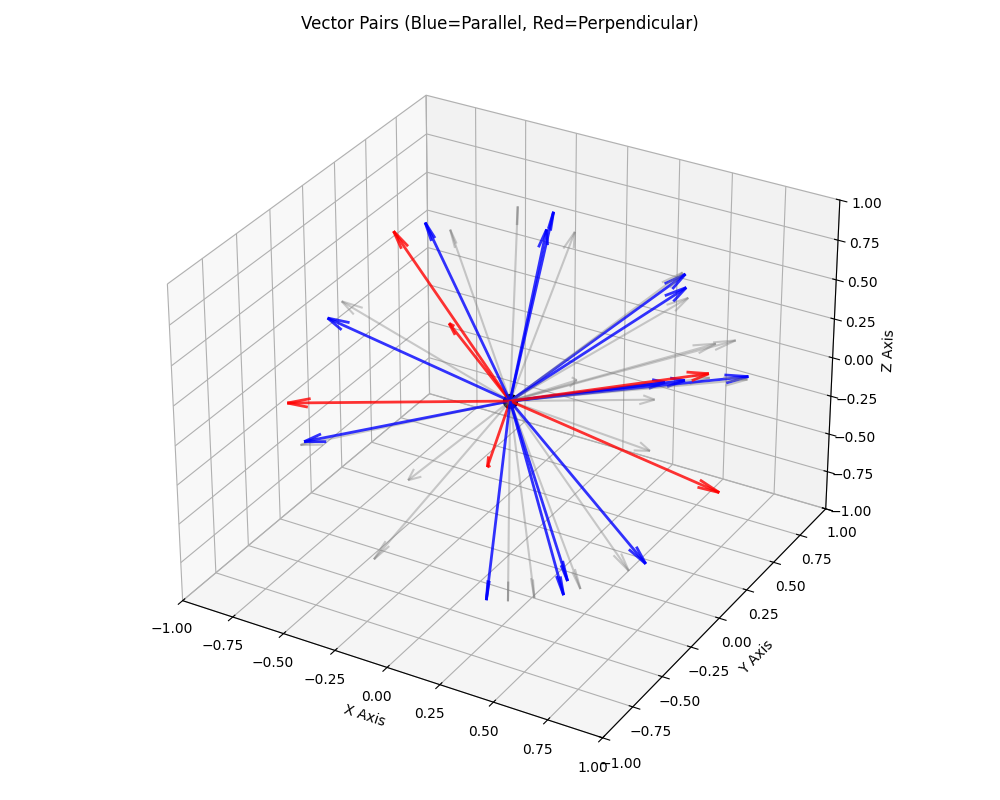
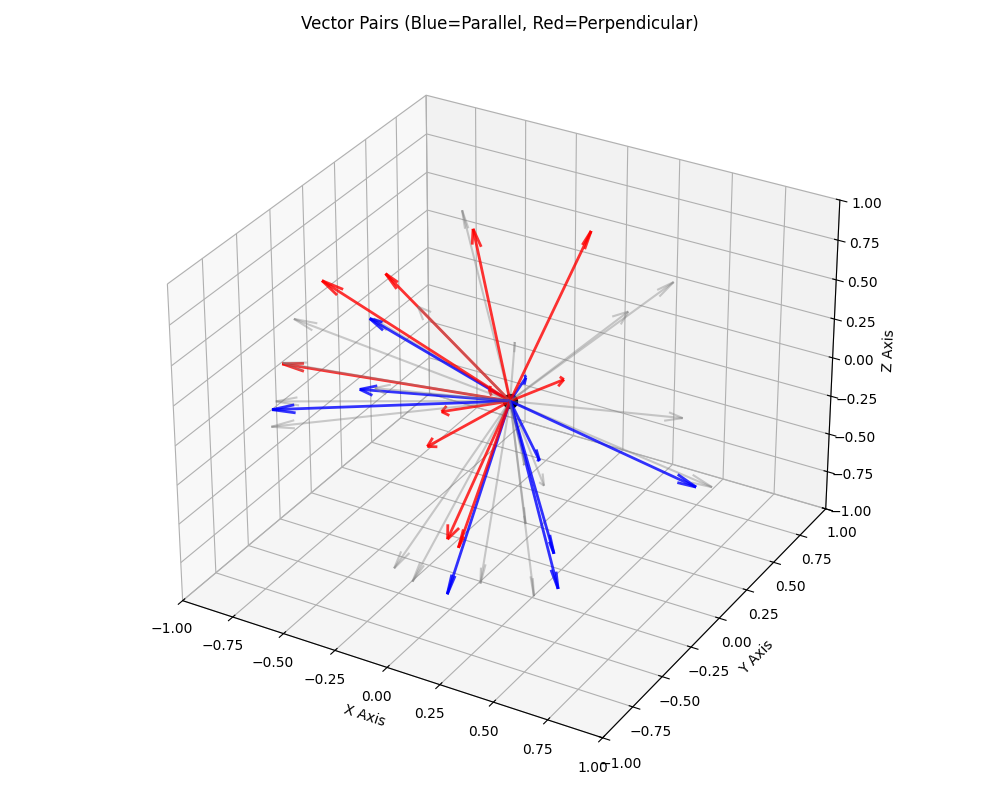
Update model and rotation invariance / wording in readme

Changed region(s): [[0.279, 0.2812, 0.744, 0.75], [0.589, 0.625, 0.651, 0.7188], [0.682, 0.5938, 0.713, 0.625]]

diff --git a/BlackHoleSpinAlignment.py b/BlackHoleSpinAlignment.py
@@ -3,22 +3,22 @@ import torch.nn as nn
 import torch.optim as optim
 import e3nn.o3
 import e3nn.nn
-from e3nn.nn import BatchNorm
-from e3nn.o3 import FullyConnectedTensorProduct
 import numpy as np
 import matplotlib.pyplot as plt
-import scipy.spatial.transform
 from scipy.spatial.transform import Rotation as R
-import sklearn.metrics
 
-# Generate pairs of vectors that are either parallel or perpendicular. (Binary or Dynamical Black Hole Formation)
+SEED = 42
+np.random.seed(SEED)
+torch.manual_seed(SEED)
+
+# Generate synthetic pairs of vectors that are either parallel or perpendicular. (Binary or Dynamical Black Hole Formation)
 def generate_parallel_perpendicular_data(n_samples=1000, noise_level=0.1): # Because nature is not perfect, add random noise to alter the numbers slightly
     v1_list = []
     v2_list = []
     labels = [] # parallel or perpendicular
 
     for i in range(n_samples): # create the list of vectors n times
-        v1 = np.random.rand(3) # generate vector having 3 numbers (x, y, z)
+        v1 = np.random.randn(3) # generate vector having 3 numbers (x, y, z)
         v1 = v1 / np.linalg.norm(v1) # normalize the vectors to a length of 1 (makes it fair for smaller numbers)
         
         label = np.random.randint(0, 2) # random 50/50 result of 0 or 1 (parallel or perpendicular)
@@ -82,7 +82,8 @@ class AlignmentClassifier(nn.Module): # Creating the custom neural network model
         self.irreps_output = e3nn.o3.Irreps("10x0e")  # "10x0e" = 10x(channels)0(scalar)e(even parity)
         
         # Tensor product: v1 ⊗ v2
-        # Outputs geometric features encoding dot product, cross product, etc.
+        # Outputs rotationally invariant scalar features from geometric relationships between vector 1 and 2
+        # Since the output is 0e, these features contain dot-product-like information than just vector information
         self.tp = e3nn.o3.FullyConnectedTensorProduct( # FullyConnectedTensorProduct preforms tensor product between two input features to produce an output tensor which desired features
             self.irreps_in,  # vector v1
             self.irreps_in,  # vector v2
@@ -135,50 +136,58 @@ def train_model(model, data, n_epochs=100, lr=0.01): # model = the ML model need
 
     return losses, accuracies
 
-# Tests to find if the ML model is truly equivariant 
-def test_equivariance(model, n_tests=100): # tests the input model 100 times
-   
-    print(f"EQUIVARIANCE TEST")
+# Tests to find if the ML model is truly invariant under rotation
+def test_rotation_invariance(model, n_tests=100): # tests the input model 100 times
+
+    print(f"ROTATION INVARIANCE TEST")
     model.eval() # sets to PyTorch inference mode
-    
-    correct = 0 # intializes correct and total to 0 
-    total = 0
-    
-    with torch.no_grad(): # loops n_test times without gradients being calculated
+
+    differences = [] # creates an empty list to store the difference between original and rotated predictions
+
+    with torch.no_grad(): # loops n_tests times without gradients being calculated
         for _ in range(n_tests):
+
             # Generate a pair of random vectors
-            v1 = np.random.randn(3)
-            v1 = v1 / np.linalg.norm(v1)
-            
-            label = np.random.randint(0, 2)
-            if label == 0:  # Parallel
-                v2 = v1 + 0.1 * np.random.randn(3)
-            else:  # Perpendicular
-                r = np.random.randn(3)
-                v2 = r - np.dot(r, v1) * v1
-            v2 = v2 / np.linalg.norm(v2)
-            
+            v1 = np.random.randn(3) # generates a vector with 3 random numbers (x, y, z)
+            v1 = v1 / np.linalg.norm(v1) # normalizes the vector to a length of 1
+
+            v2 = np.random.randn(3) # generates a second random 3D vector
+            v2 = v2 / np.linalg.norm(v2) # normalizes the second vector to a length of 1
+
+            # Convert original vectors into PyTorch tensors
+            v1_t = torch.tensor(v1, dtype=torch.float32).unsqueeze(0) # converts v1 into a PyTorch tensor and adds a batch dimension
+            v2_t = torch.tensor(v2, dtype=torch.float32).unsqueeze(0) # converts v2 into a PyTorch tensor and adds a batch dimension
+
+            # Get model output BEFORE rotation
+            original_logits = model(v1_t, v2_t) # passes original vectors through the model and stores the raw prediction scores
+
             # Rotate BOTH vectors by the SAME rotation (preserves relationship)
-            rot = R.random().as_matrix()
-            v1_rot = rot @ v1
-            v2_rot = rot @ v2
-            
-            # Predict
-            v1_t = torch.tensor(v1_rot, dtype=torch.float32).unsqueeze(0) # converts existing data in v1_rot into a PyTorch tensor with a 32-bit floating point. .unsqueeze(0) adds a new dimension of size 1 at index 0 (batch size)
-            v2_t = torch.tensor(v2_rot, dtype=torch.float32).unsqueeze(0)
-            pred = torch.argmax(model(v1_t, v2_t)).item() # passes the two tensors through the ML model to get an output, argmax finds index with max value (label), .item() extracts the value of the predicted label from the tensor
-            
-            if pred == label: # conditional to compare the prediction to the answer
-                correct += 1
-            total += 1
-    
-    accuracy = correct / total # calculates the accuracy 
-    print(f"Accuracy on rotated pairs (same rotation): {accuracy*100:.1f}%")
-    return accuracy
+            rot = R.random().as_matrix() # generates a random 3x3 rotation matrix
+            v1_rot = rot @ v1 # applies the rotation matrix to v1
+            v2_rot = rot @ v2 # applies the same rotation matrix to v2
+
+            # Convert rotated vectors into PyTorch tensors
+            v1_rot_t = torch.tensor(v1_rot, dtype=torch.float32).unsqueeze(0) # converts rotated v1 into a PyTorch tensor with batch dimension
+            v2_rot_t = torch.tensor(v2_rot, dtype=torch.float32).unsqueeze(0) # converts rotated v2 into a PyTorch tensor with batch dimension
+
+            # Get model output AFTER rotation
+            rotated_logits = model(v1_rot_t, v2_rot_t) # passes rotated vectors through the same model
+
+            # Compare output before and after rotation
+            diff = torch.max(torch.abs(original_logits - rotated_logits)).item() # finds the largest absolute difference between the two outputs
+            differences.append(diff) # stores the difference from this test
+
+    max_difference = max(differences) # finds the largest difference across all rotation tests
+    mean_difference = np.mean(differences) # finds the average difference across all rotation tests
+
+    print(f"Maximum output difference: {max_difference:.8e}")
+    print(f"Mean output difference: {mean_difference:.8e}")
+
+    return max_difference
 
 # tests on a different validation set
 def test_on_validation_set(model, val_data):
-    print(f"Valdidation Test Set")
+    print(f"Validation Test Set")
     model.eval()
     
     with torch.no_grad(): # disables gradient calculation
@@ -191,7 +200,7 @@ def test_on_validation_set(model, val_data):
 
 
 if __name__ == "__main__":
-    print("Equivariant Vector Alignment Classifier")
+    print("E(3)-Equivariant Vector Alignment Classifier") # rotation-invariant vector alignment classifier using e3nn
     
     # Generate data
     print("Generating training data")
@@ -232,11 +241,11 @@ if __name__ == "__main__":
     
     # Run tests
     val_acc = test_on_validation_set(model, val_data)
-    eq_acc = test_equivariance(model, n_tests=200)
+    invariance_error = test_rotation_invariance(model, n_tests=200) # tests whether rotating both vectors changes the output
     
     print("Final Results")
     print(f"Training Accuracy:   {accs[-1]*100:.1f}%")
     print(f"Validation Accuracy: {val_acc*100:.1f}%")
-    print(f"Equivariance Test:   {eq_acc*100:.1f}%")
+    print(f"Rotation Invariance Error: {invariance_error:.8e}")
     
     plt.show()

diff --git a/README.md b/README.md
@@ -1,6 +1,6 @@
 Black Hole Spin Alignment Classifier 
 
-An E(3)-equivariant neural network for classifying black hole spin alignment in binary systems, built using the e3nn library
+An E(3)-equivariant neural network for studying simplified black hole spin alignment in binary systems, built using the e3nn library
 
 -- 
 
@@ -11,44 +11,42 @@ This project explores whether equivariant neural networks can rapidly classify b
  **Results:**
 - Training Accuracy: 99.8%
 - Validation Accuracy: 100%
-- Equivariance Test: 100%
+- Maximum Rotation Invariance Error: 3.81 * 10^-6
+- Mean Rotation Invariance Error: 3.38 * 10^-7
 
 Motivation: Why Spin Alignment Matters
 
 Primary black hole spin alignment reveals its history:
-    - Aligned (χ_eff > +0.3): Isolated binary evolution
-    - Misaligned (χ_eff ≈ 0): Dynamical capture (clusters, AGN)
-    - Anti-aligned (χ_eff < 0): Hypothesized hierarchical mergers 
 
- Current LIGO observations show a mix of these alignments, suggesting different ways a black hole may form across time. 
-
+Black hole spin alignment can provide information about the history of black hole systems. Different formations may produce different statistical distributions of spin orientations. Isolated formation may favor aligned configurations, while dynamical formations may favor more randomly oriented spins. The effective spin paramater (x_eff) is a parameter involved in the spin-orbit relationship. 
 Why Equivariance?: 
 
 Standard neural networks fail for astrophysical classification because our observations are viewing-angle dependent, but the physics which describe the object is not. Standard MLP models learn coordinate-dependent patterns. If the system is rotated 90°, the model will see both sets of inputs as completely different.
 
-E(3)-equivariant networks respect the symmetries of a three-dimensional space across translations and rotations. It recognizes physical relationships regardless of observer position, binary system orientation, or coordinate system choice. When observers such as LIGO Hanford and LIGO Livingston operate under different reference frames (3000km apart), this makes the ML model learn significantly easier. 
+E(3)-equivariant networks respect the symmetries of a three-dimensional space across translations and rotations. It recognizes physical relationships regardless of observer position, binary system orientation, or coordinate system choice. 
 
 
 The Process:
 
 Input: 
-Spin vectors (v1 & v2) from binary black hole systems 
-- -> Tensor product (v1 ⊗ v2): Computes geometric features (dot product, cross product, etc)
+Spin vectors (v1 & v2) representing simplified black hole spin-alignment geometry
+- -> Tensor product (v1 ⊗ v2): Produces rotationally invariant scalar features containing dot-product-like geometric information
 - -> Batch Normalization
 - -> MLP Classifier (10 -> 16 -> 2)
 Output: 
-Aligned or Misaligned
+Parallel or Perpendicular
 
 Key Learning:
 - I studied and implemented an E(3)-equivariant ML model, understanding concepts such as irreducible representations.
 - The importance of equivariance, and fully visualizing its effects. 
-- Further bridging together mathematics and physics with concepts such as tensor product and how it relates to x_eff (effective spin) commonly used in LIGO parameters.
+- Further bridging together mathematics and physics with concepts such as tensor product and how it relates to x_eff (effective spin) commonly used in gravitational wave astronomy.
 - This project is a pivotal point in my learning. I handled incredibly complex topics and documentation while completely understanding every part of the code. 
 
 Future Improvements:
- - Proof of concept: needs validation on real LIGO data.
+ - Proof of concept: needs validation on real black hole data.
  - Incorporate the quantified advantage over standard neural network models.
  - Simplified the physics: Should expand more to accurately match parameters found in black hole detections
+ - Try to predict aligniment from different angles than the binary case I used
 
 **Contact**
 - Bradyn Livingston
